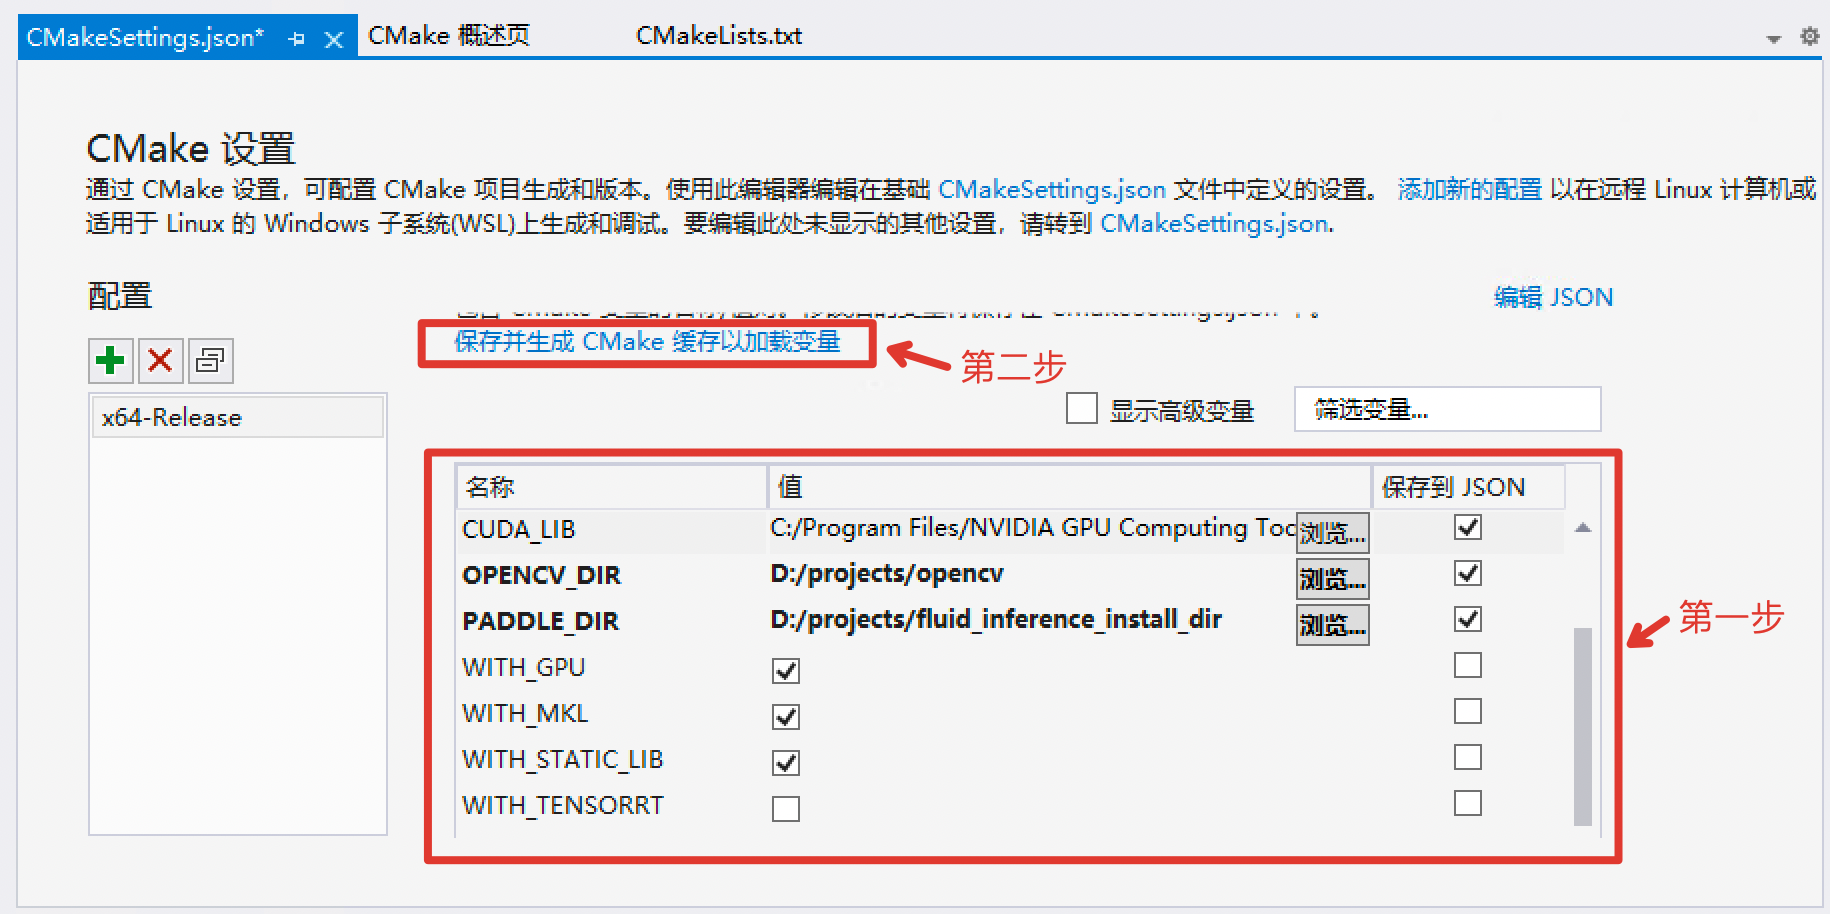
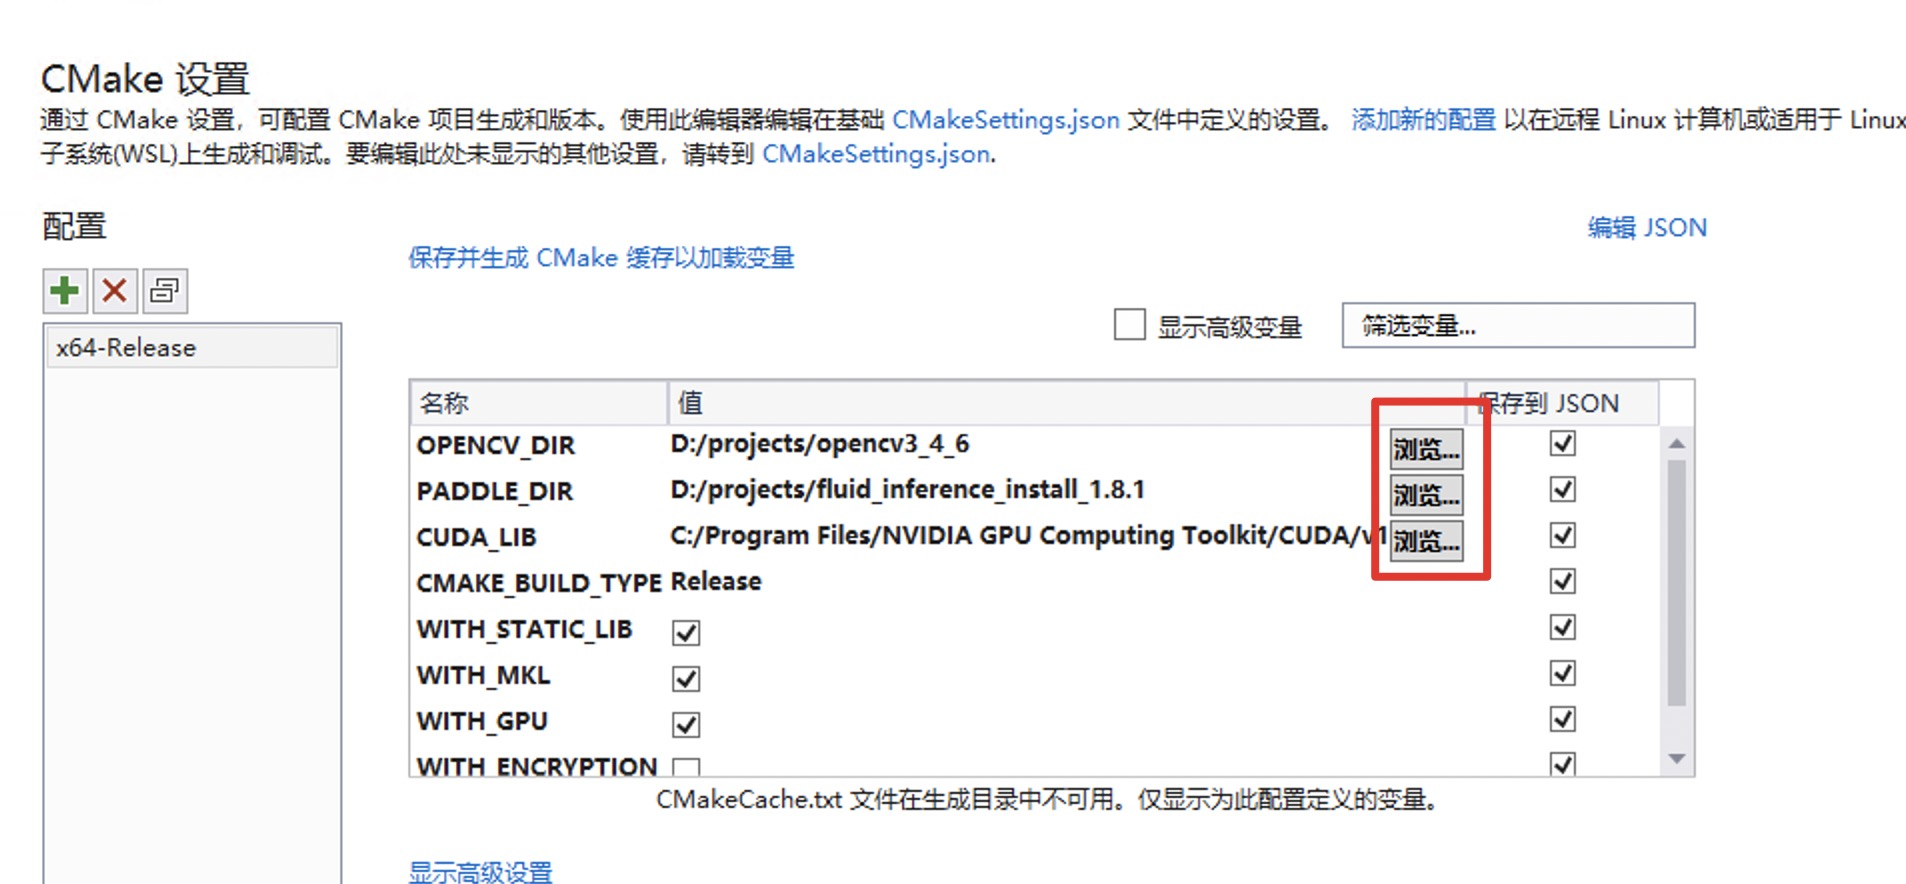
add step4 img

diff --git a/docs/tutorials/deploy/deploy_server/deploy_cpp/deploy_cpp_win_vs2019.md b/docs/tutorials/deploy/deploy_server/deploy_cpp/deploy_cpp_win_vs2019.md
@@ -72,11 +72,13 @@ PaddlePaddle C++ 预测库针对不同的`CPU`，`CUDA`，以及是否支持Tens
 
 ![step2.2](../../images/vs2019_step3.png)
 
-3. 点击：`项目`->`PADDLEX_INFERENCE的CMake设置`
+3. 点击：`项目`->`CMake设置`
 
 ![step3](../../images/vs2019_step4.png)
 
 4. 点击`浏览`，分别设置编译选项指定`CUDA`、`OpenCV`、`Paddle预测库`的路径
+
+![step3](../../images/vs2019_step5.png)
 
 依赖库路径的含义说明如下（带*表示仅在使用**GPU版本**预测库时指定, 其中CUDA库版本尽量对齐，**使用9.0、10.0版本，不使用9.2、10.1等版本CUDA库**）：
 
@@ -95,13 +97,13 @@ PaddlePaddle C++ 预测库针对不同的`CPU`，`CUDA`，以及是否支持Tens
 
 yaml-cpp.zip文件下载后无需解压，在cmake/yaml.cmake中将`URL https://bj.bcebos.com/paddlex/deploy/deps/yaml-cpp.zip` 中的网址，改为下载文件的路径。
 
-![step4](../../images/vs2019_step5.png)
+![step4](../../images/vs2019_step6.png)
 
 **设置完成后**, 点击上图中`保存并生成CMake缓存以加载变量`。
 
 5. 点击`生成`->`全部生成`
 
-![step6](../../images/vs2019_step6.png)
+![step6](../../images/vs2019_step7.png)
 
 
 ### Step5: 预测及可视化
